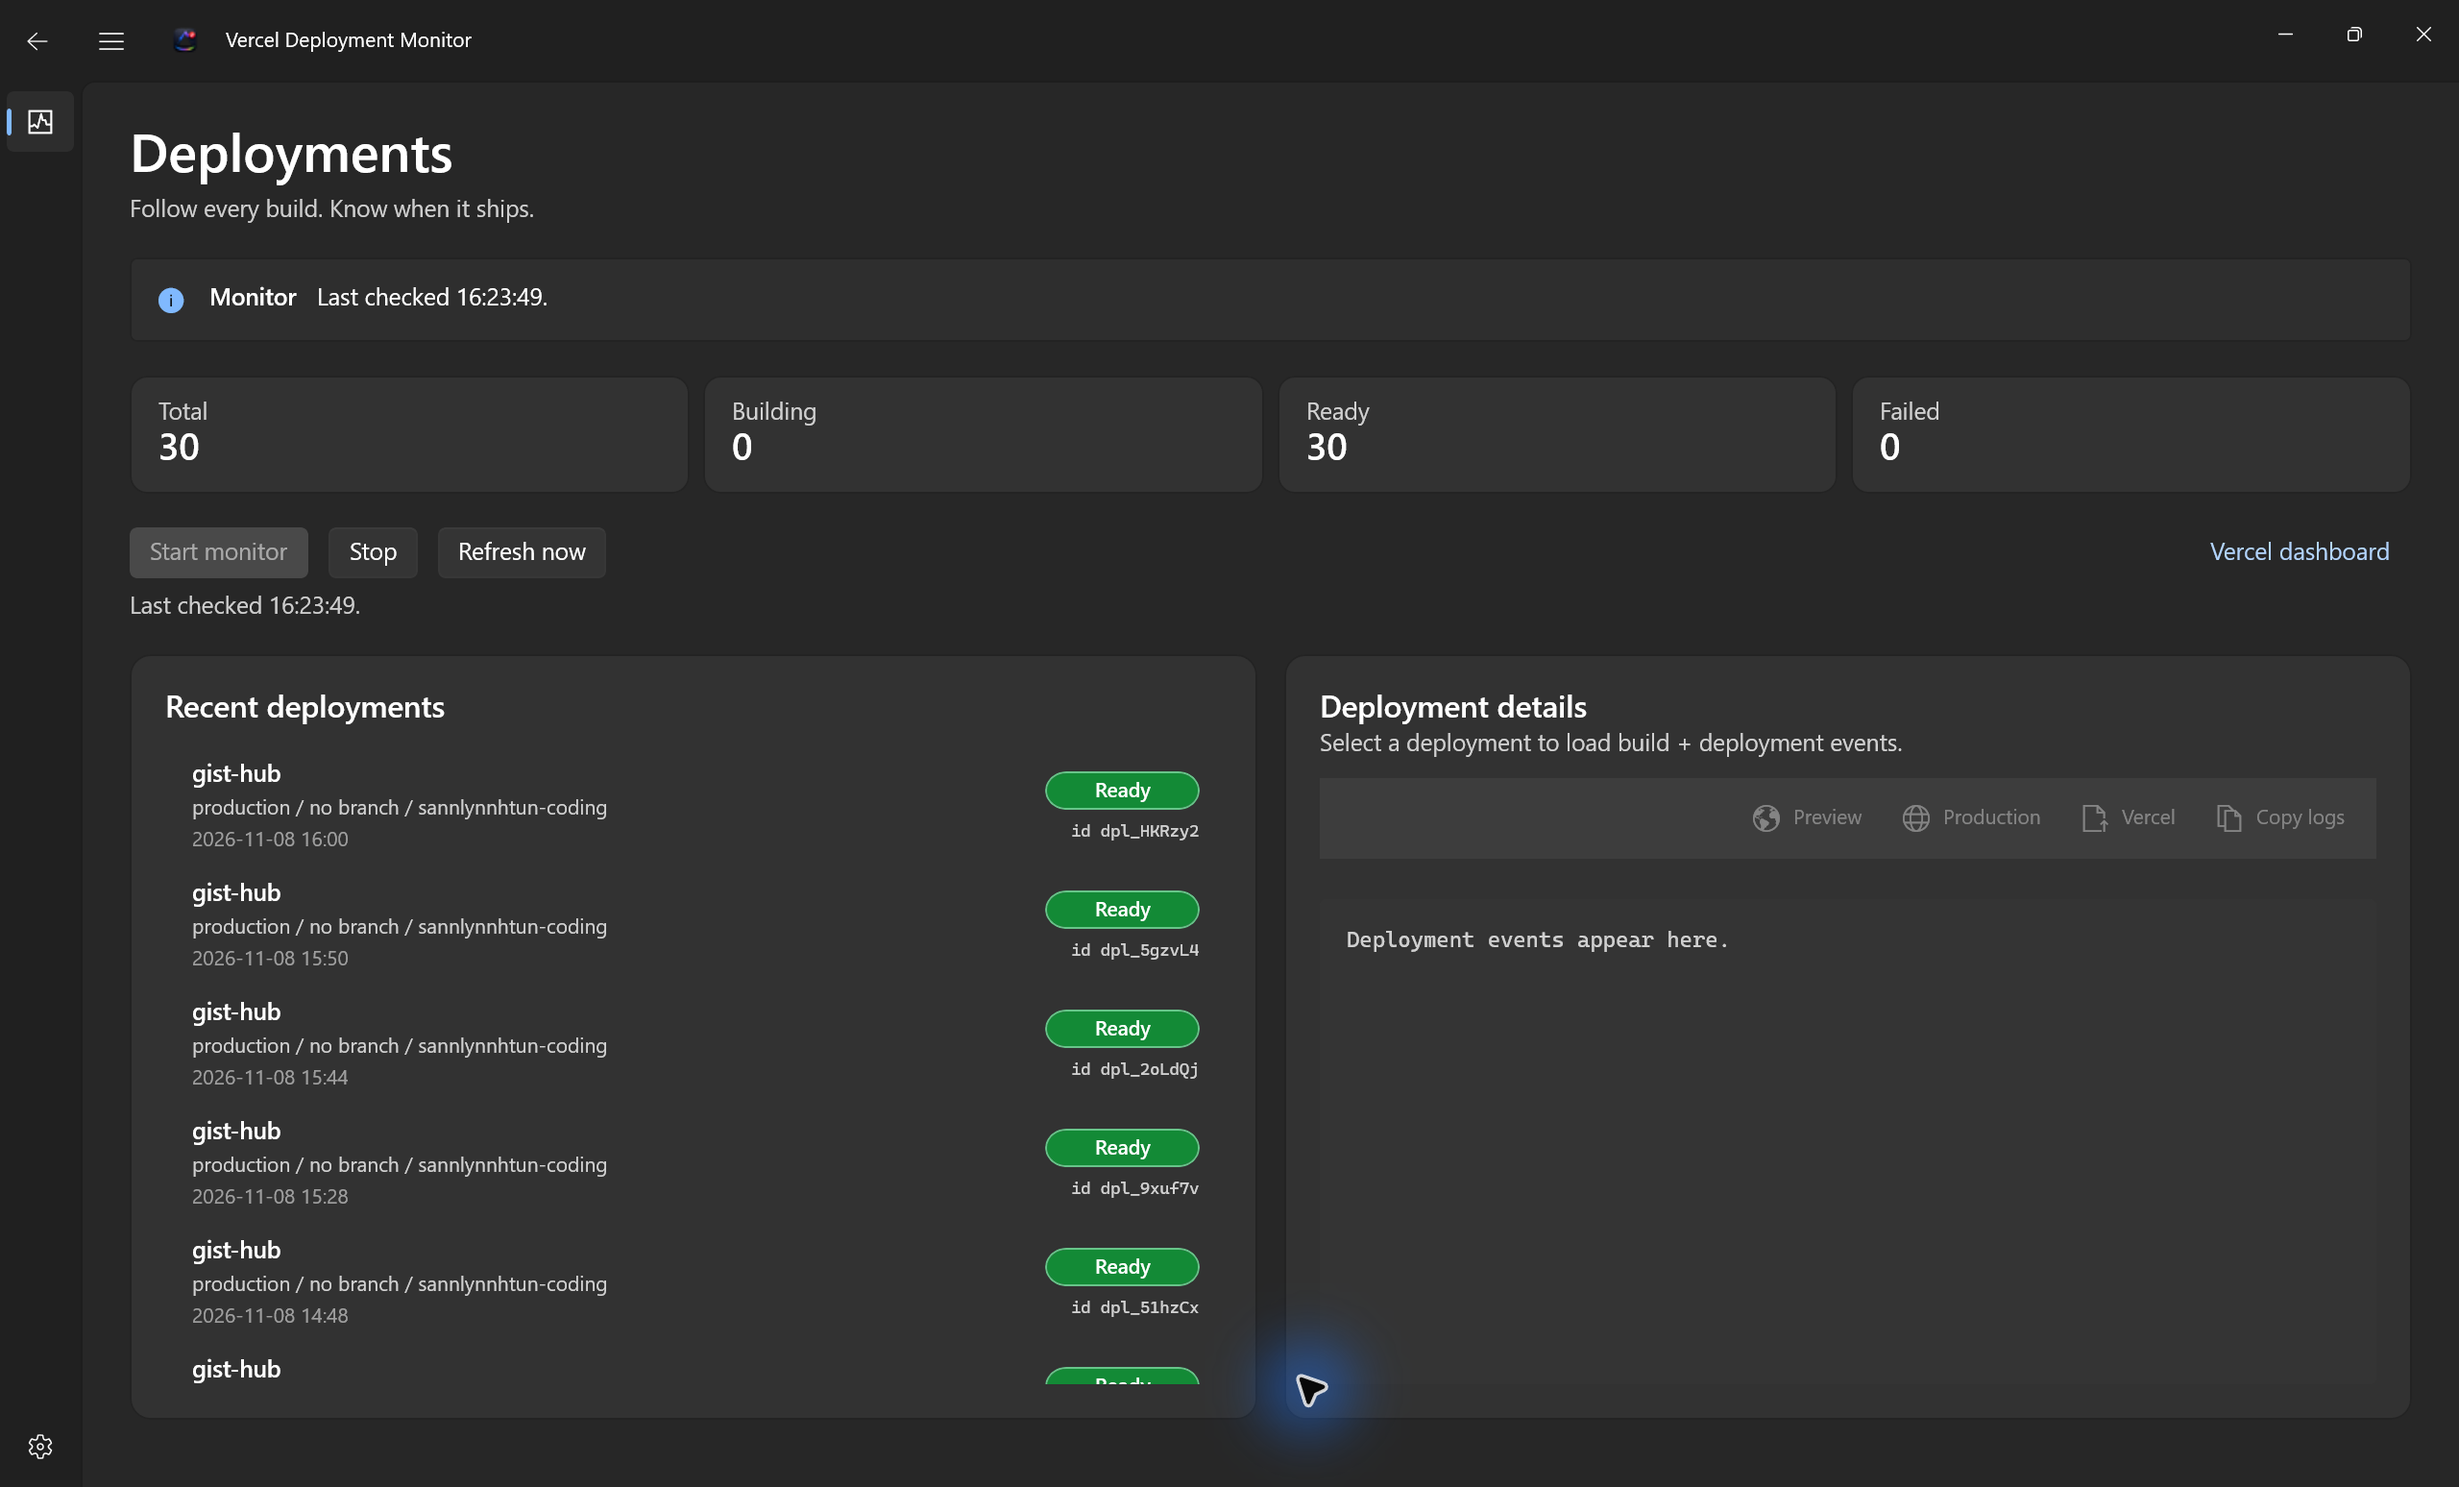
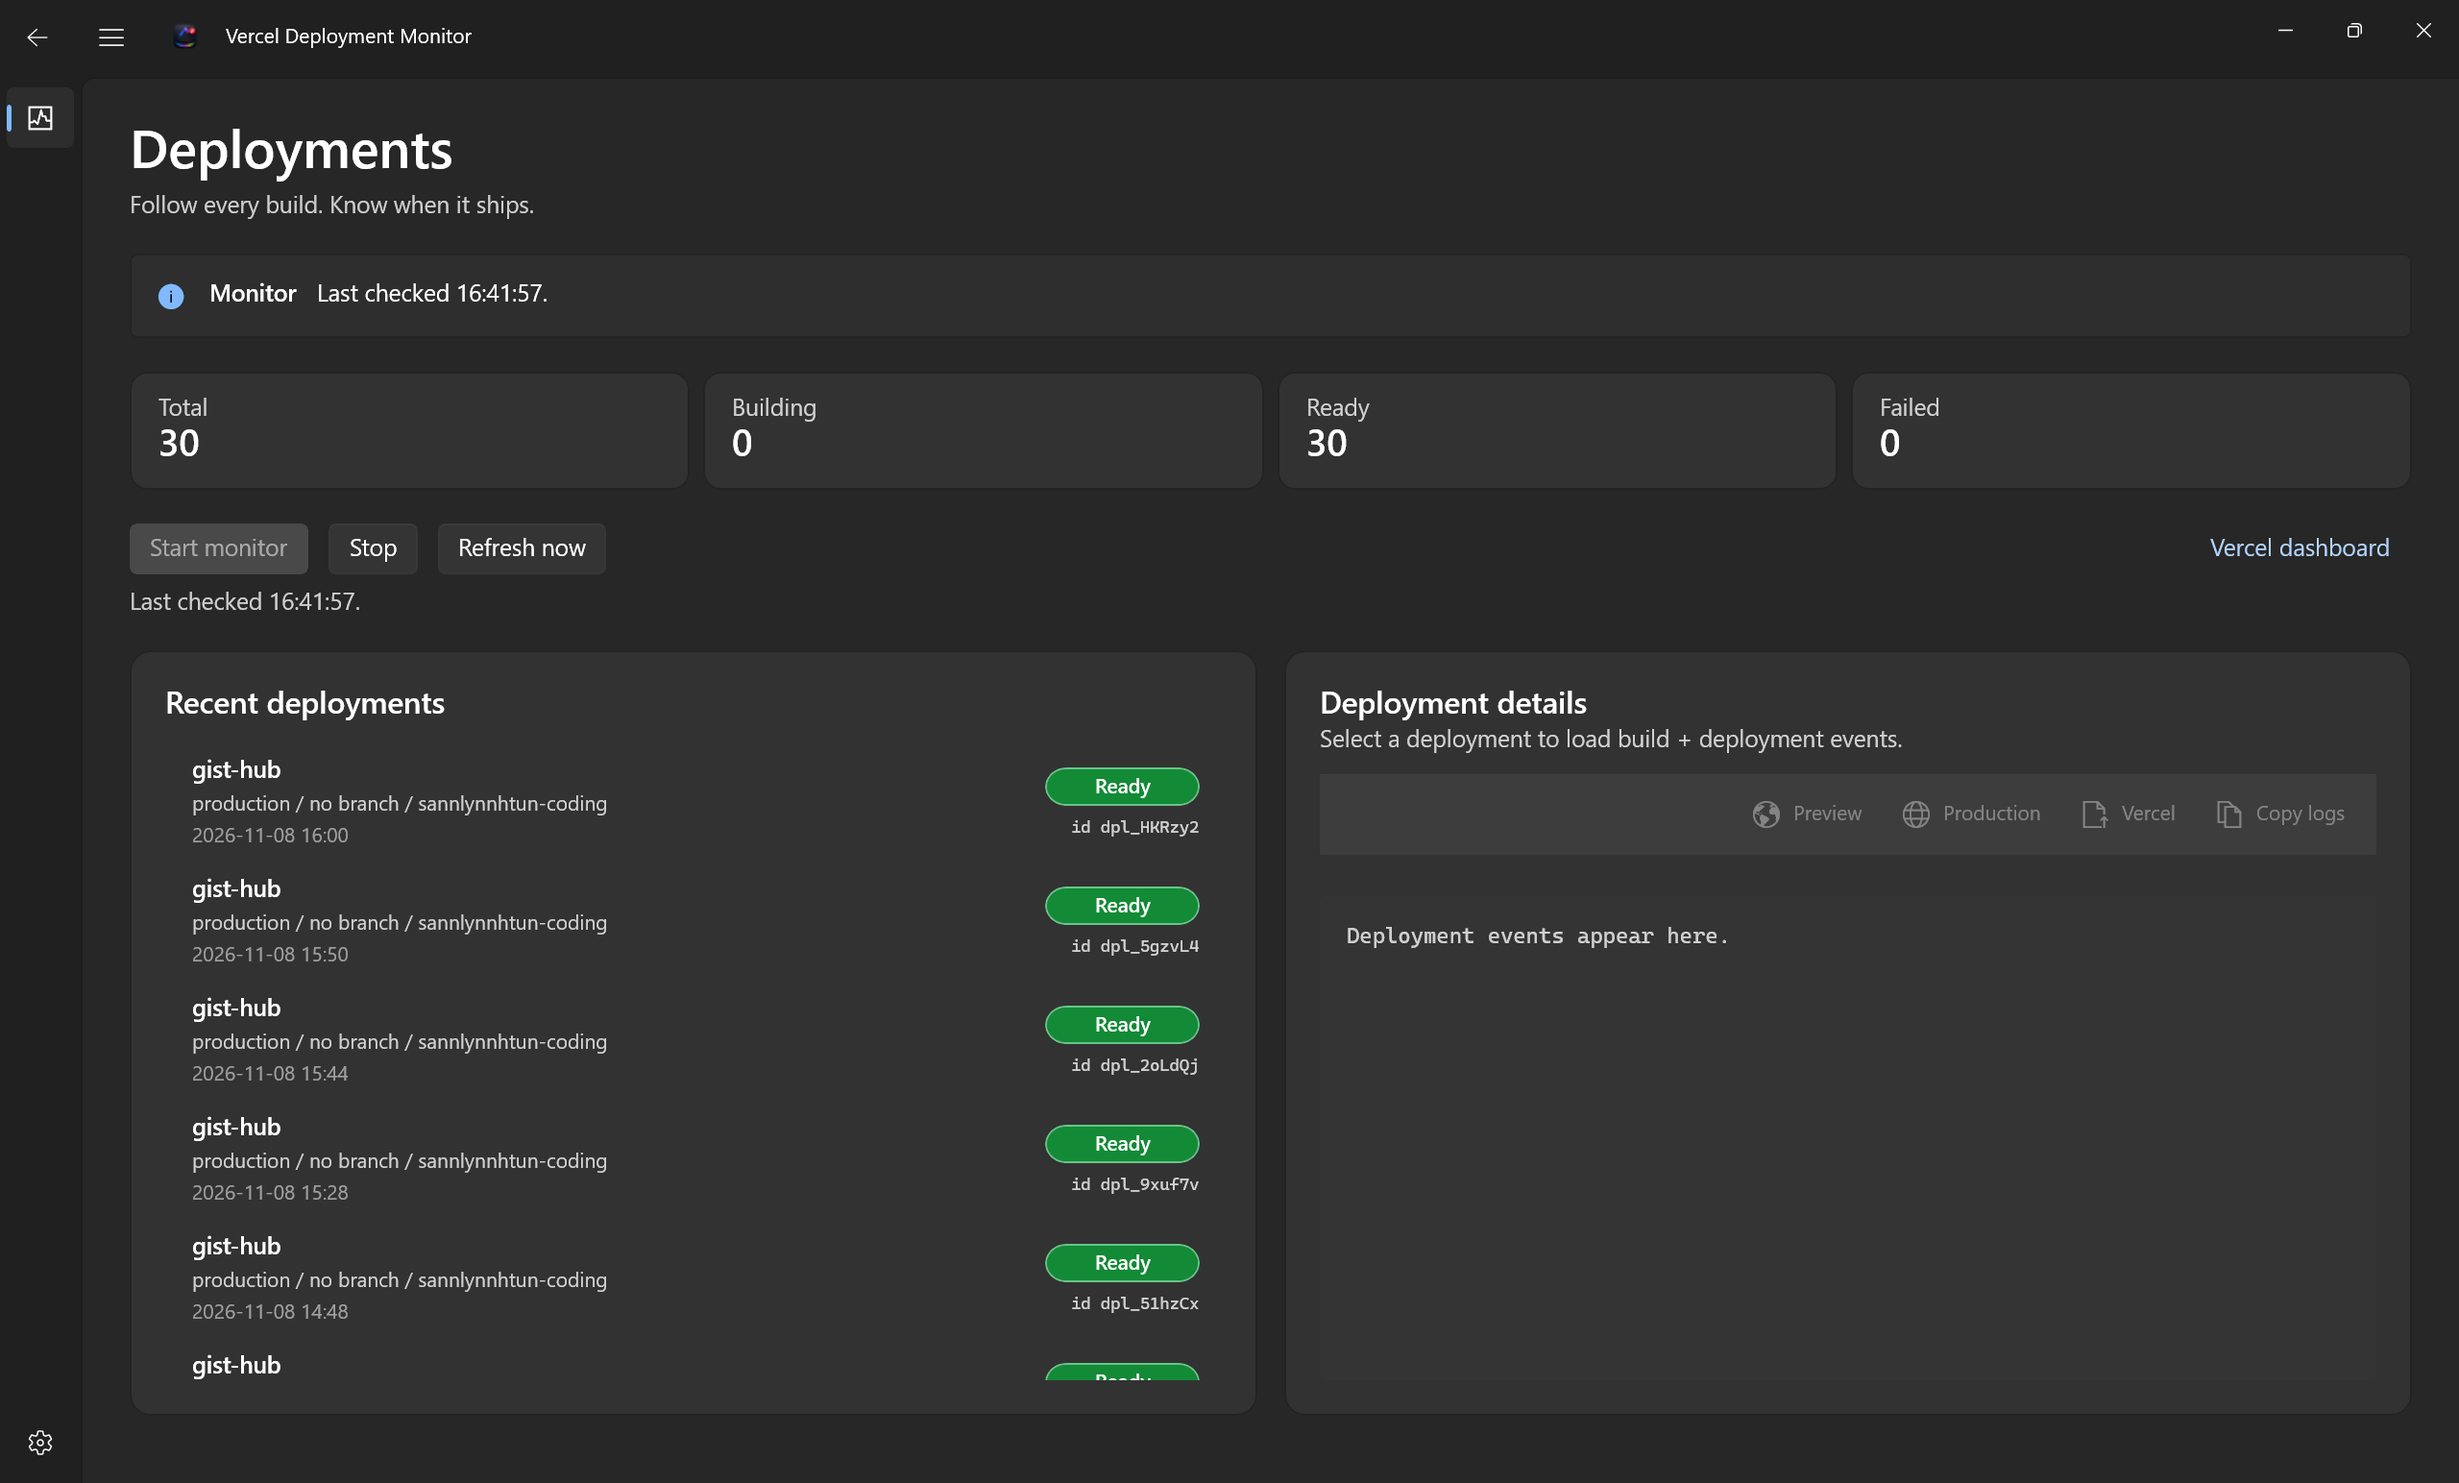
docs: replace dashboard screenshots with supplied captures

diff --git a/README.md b/README.md
@@ -25,11 +25,11 @@ Deployment totals, recent deployments, and the details pane displayed side by si
 
 ![Wide deployment dashboard with status totals, recent deployments, and deployment details](docs/screenshots/deployments-wide.png)
 
-### Stacked dashboard
+### Deployment logs
 
-The same dashboard in a smaller window, with deployment details below the deployment list. The page scrolls vertically, keeping both panes at a usable height; the deployment list and logs also scroll independently. This capture is scrolled to the expanded log pane, with the deployment list above it.
+Select a deployment to inspect its build events and access preview, production, Vercel, and copy-log actions.
 
-![Scrollable stacked dashboard showing the expanded log pane below the deployment list](docs/screenshots/deployments-stacked.png)
+![Selected deployment with build events and deployment actions](docs/screenshots/deployment-logs.png)
 
 ### Settings
 
